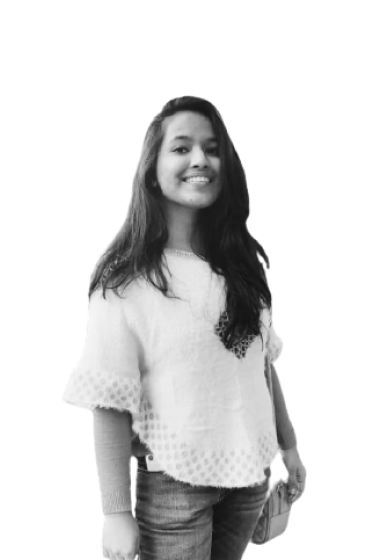
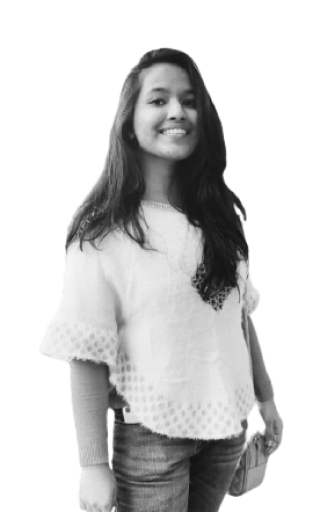
Fix flex props in team page, crop images

Changed region(s): [[0.1869, 0.0938, 0.9034, 1.0], [0.1869, 0.625, 0.2181, 0.6562]]

diff --git a/assets/css/team.css b/assets/css/team.css
@@ -74,43 +74,47 @@ body{
 
 .team-pics{
   position: absolute;
+  width: 80%;
   display: flex;
   flex-direction: row;
   align-items: baseline;
-  justify-content: center;
+  justify-content: space-between;
   bottom: 0;
 }
 
 .team-info{
   display: flex;
   flex-direction: row;
+  width: 100%;
   align-items: center;
-  justify-content: center;
+  justify-content: space-evenly;
   text-align: left;
 }
 
 .team-pics img{
-  margin-left:  100px;
-  margin-right: 100px;
+  /* margin-left:  100px;
+  margin-right: 100px; */
   margin-block: justify;
 }
 
 .info{
   display: flex;
+  flex: 1;
   text-size-adjust: auto;
   flex-direction: column;
   align-items: center;
-  justify-content: auto;
+  justify-content: center;
   font-size: 16px;
   color: black;
   text-align: center;
+  margin: 0 auto;
+  
 }
 
 .info p{
   text-align: match-parent ;
   margin: 0px;
-  margin-right: 10vh;
-  margin-left: 10vh;
+  padding: 0 20px;
 }
 
 .social{

diff --git a/team2.html b/team2.html
@@ -806,7 +806,7 @@
                 <div class="circle1"></div>
                 <div class="circle2"></div>
                 <div class="circle3"></div>
-                <p>Exbo</p>
+                <p>Event Heads</p>
             </div>
 
             <!-- New Division -->
